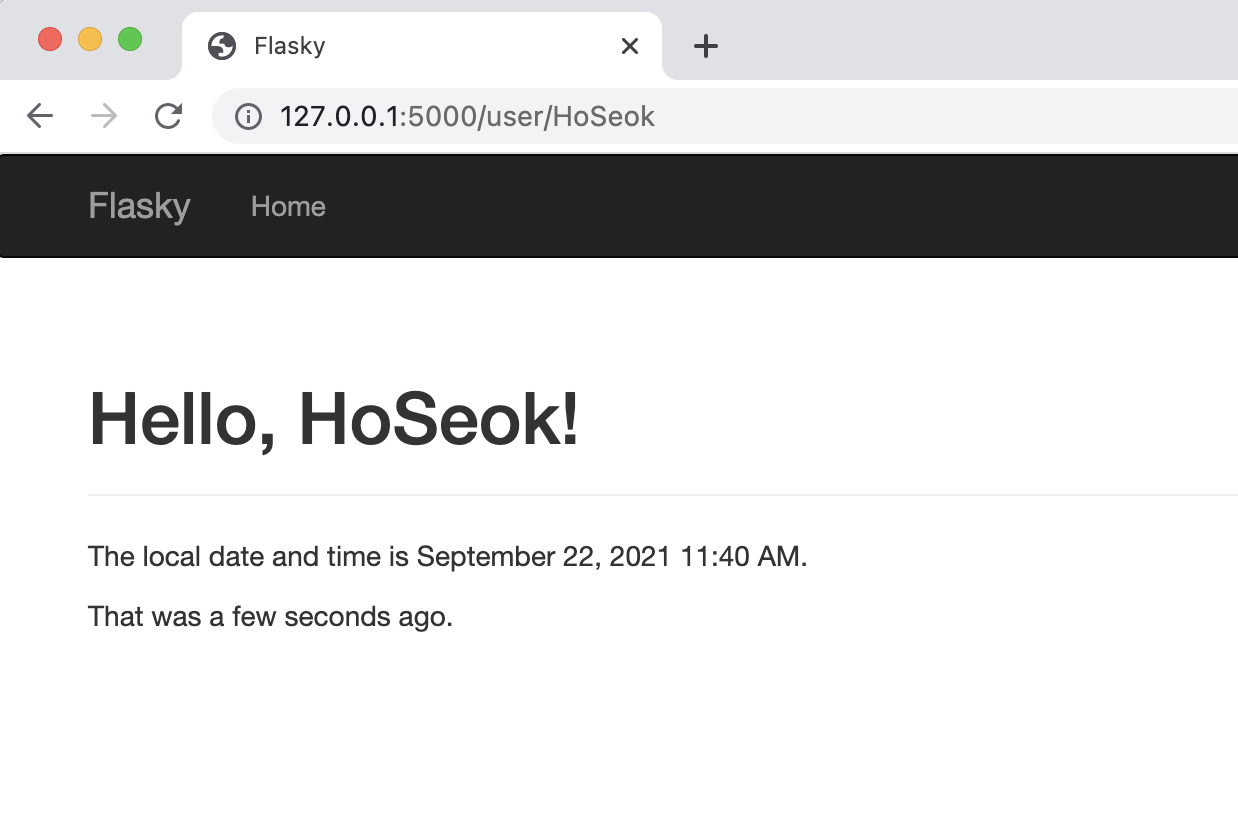
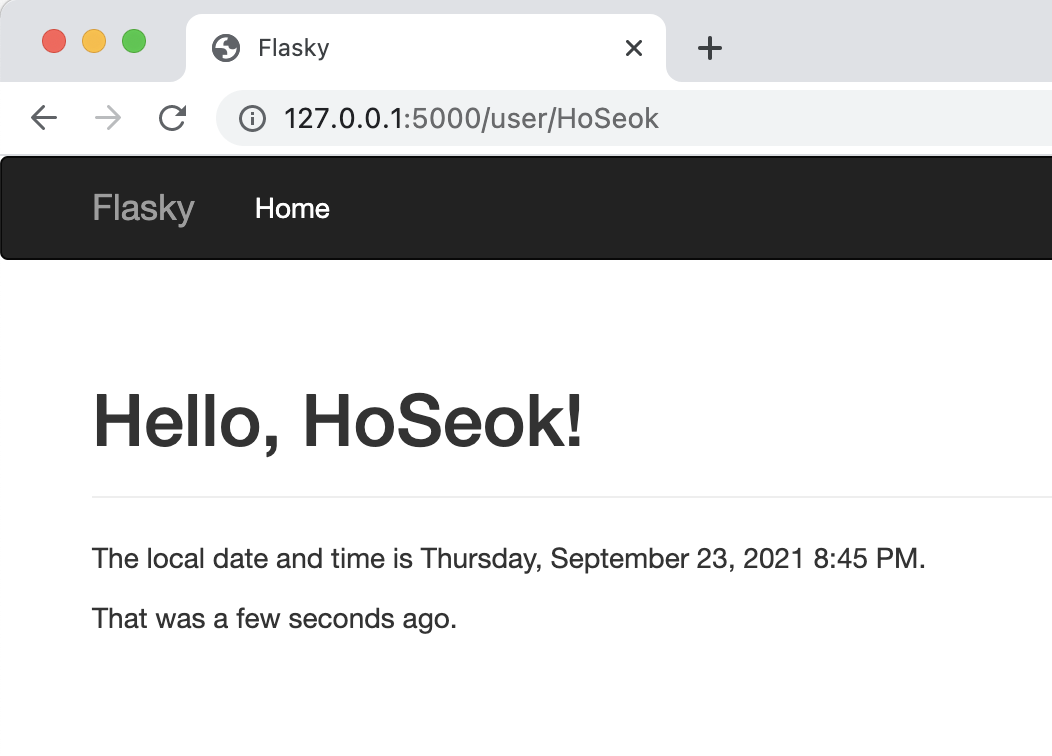
Updated screenshot act3.png.

Changed region(s): [[0.0, 0.0, 1.0, 0.3651], [0.0608, 0.6693, 0.8821, 0.8519], [0.0608, 0.4563, 0.5475, 0.6085]]

diff --git a/templates/user.html b/templates/user.html
@@ -6,6 +6,6 @@
 <div class="page-header">
     <h1>Hello, {{ name }}!</h1>
 </div>
-<p>The local date and time is {{ moment(current_time).format('LLL') }}.</p>
+<p>The local date and time is {{ moment(current_time).format('LLLL') }}.</p>
 <p>That was {{ moment(current_time).fromNow(refresh=True) }}.</p>
 {% endblock %}
